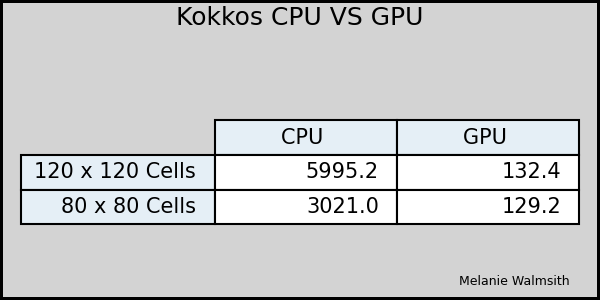
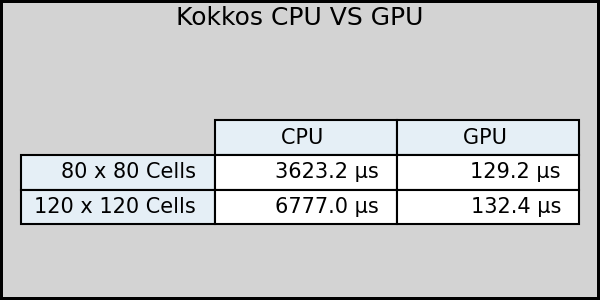
Include Microseconds in Table

diff --git a/scripts/cpu_gpu_table.py b/scripts/cpu_gpu_table.py
@@ -32,21 +32,21 @@ def compute_avg_time(filename):
 if __name__ == '__main__':
     (threads_cpu_120, avg_cpu_120) = compute_avg_time("cpu_120.txt")
     (threads_cpu_80, avg_cpu_80) = compute_avg_time("cpu_80.txt")
-    # (threads_gpu_120, avg_gpu_120) = compute_avg_time("gpu_120.txt")
-    # (threads_gpu_80, avg_gpu_80) = compute_avg_time("gpu_80.txt")
+    (threads_gpu_120, avg_gpu_120) = compute_avg_time("gpu_120.txt")
+    (threads_gpu_80, avg_gpu_80) = compute_avg_time("gpu_80.txt")
 
     name = 60 
 
-    title_text = 'Kokkos CPU vs GPU timing comparison (in µs)'
-    footer_text = 'Melanie Walmsith'
+    title_text = 'Kokkos CPU VS GPU'
+    footer_text = ' '
     fig_background_color = 'lightgray'
     fig_border = 'black'
 
     # plt.show()
     data =  [
             [         'CPU ' , 'GPU ' ],
-            [ '120 x 120 Cells',  np.mean(avg_cpu_120), 0],
-            [ '80 x 80 Cells',  np.mean(avg_cpu_80), 0]
+            ['80 x 80 Cells',  str(np.mean(avg_cpu_80)) + ' µs', str(np.mean(avg_gpu_80)) + ' µs'],
+            [ '120 x 120 Cells',  str(np.mean(avg_cpu_120)) + ' µs', str(np.mean(avg_gpu_120)) + ' µs']
         ]
 
     # Pop the headers from the data array
@@ -70,7 +70,7 @@ if __name__ == '__main__':
             edgecolor=fig_border,
             facecolor=fig_background_color,
             tight_layout={'pad':1},
-            figsize=(10, 5)
+            figsize=(4, 2),
             )
 
     # Add a table at the bottom of the axes
